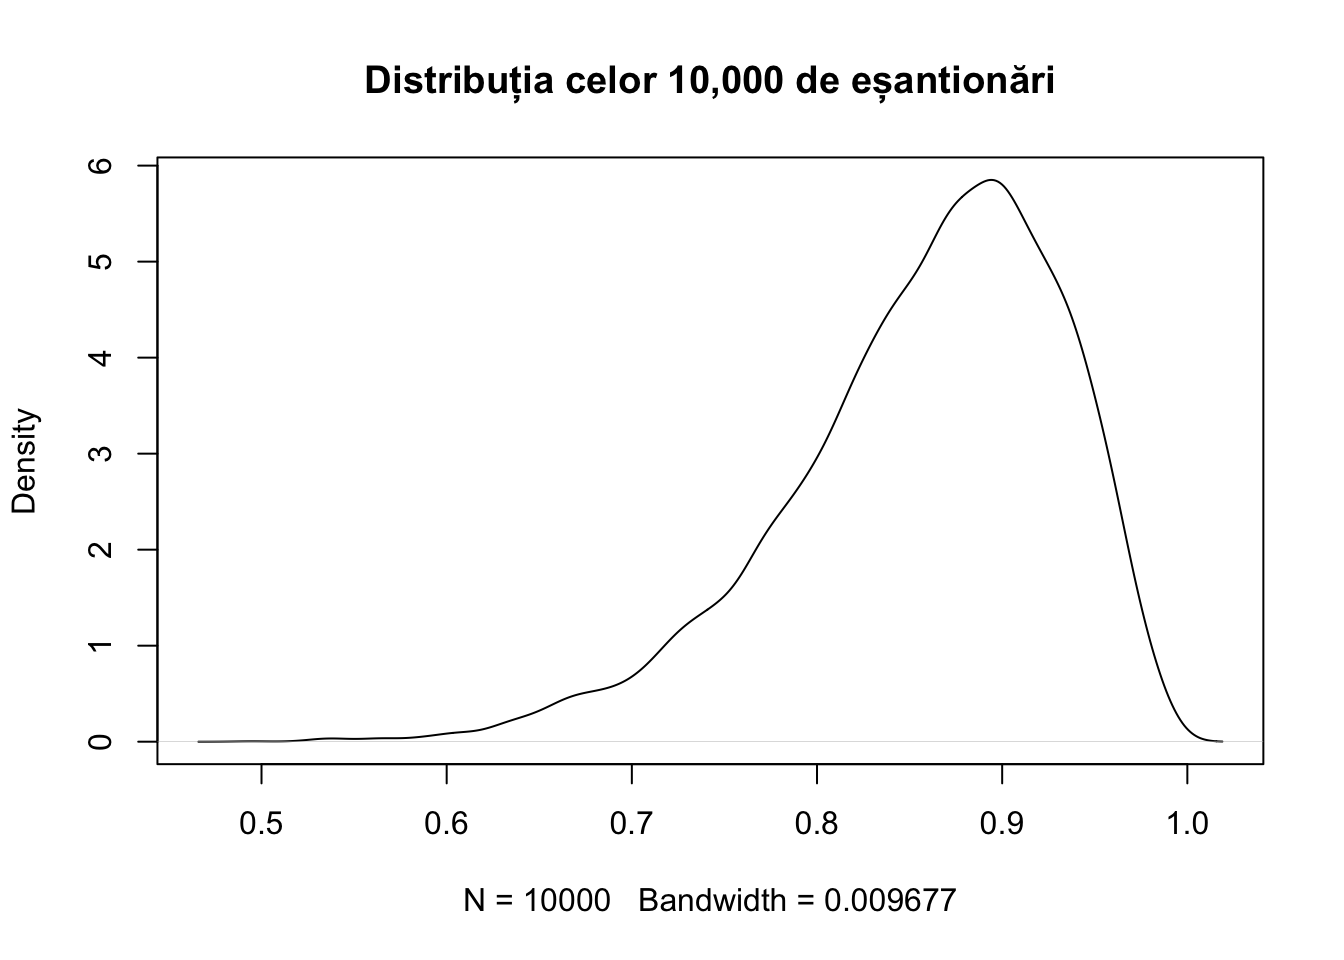
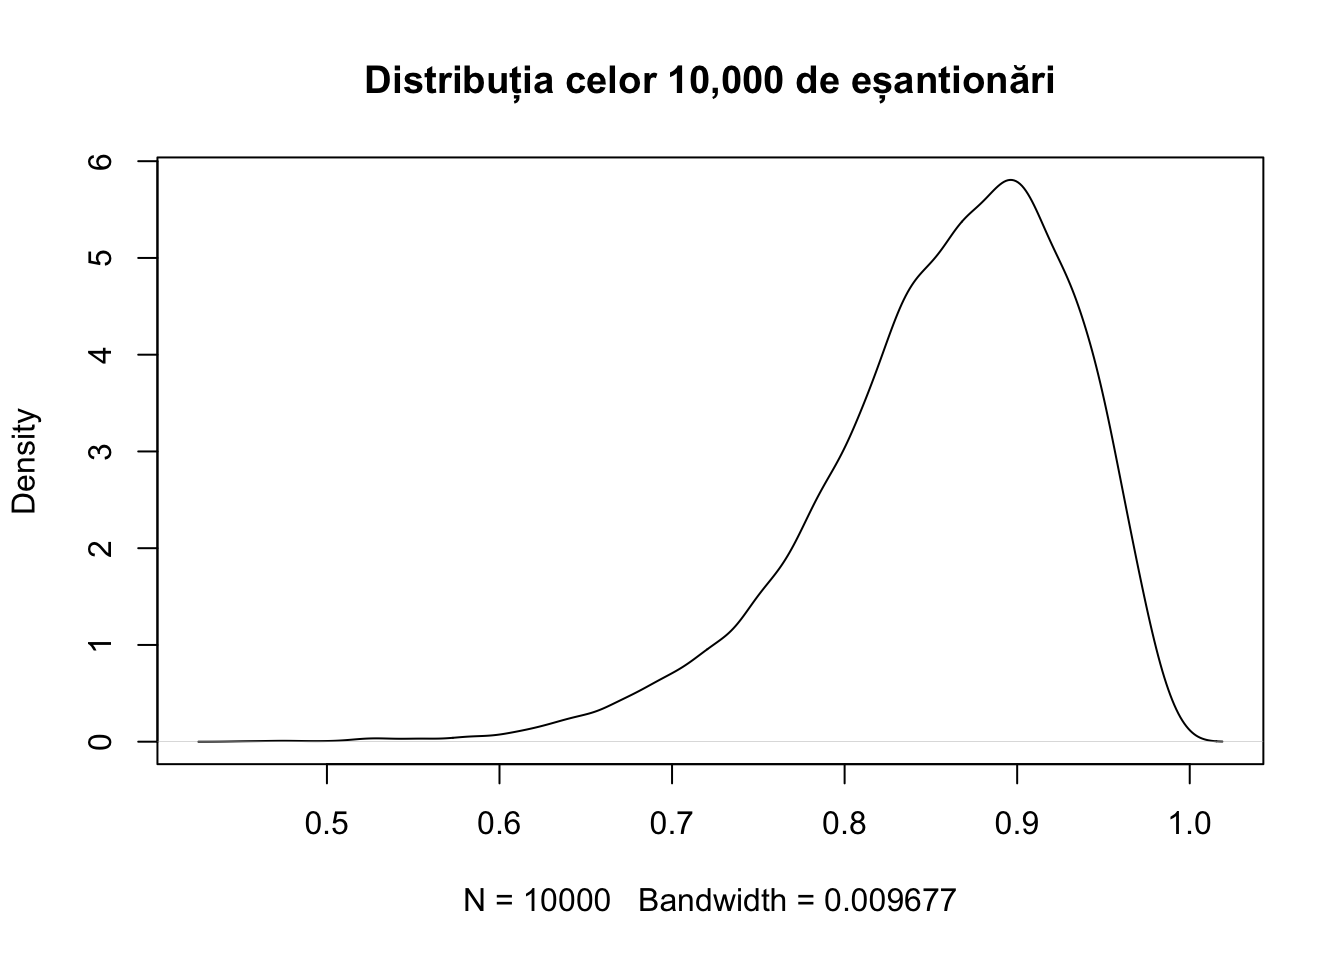
Built site for gh-pages

diff --git a/workshops/bayes/index.html b/workshops/bayes/index.html
@@ -144,11 +144,15 @@ window.Quarto = {
 
 <meta property="og:title" content="Modelul Beta-Binomial și regresia Bayesiană – George Gunnesch-Luca">
 <meta property="og:description" content="Primul vostru model Bayesian">
-<meta property="og:image" content="https://ggluca.ro/workshops/bayes/imagini/titanic.jpg">
+<meta property="og:image" content="https://ggluca.ro/workshops/bayes/imagini/mcmc-trace.png">
 <meta property="og:site_name" content="George Gunnesch-Luca">
+<meta property="og:image:height" content="960">
+<meta property="og:image:width" content="1344">
 <meta name="twitter:title" content="Modelul Beta-Binomial și regresia Bayesiană – George Gunnesch-Luca">
 <meta name="twitter:description" content="Primul vostru model Bayesian">
-<meta name="twitter:image" content="https://ggluca.ro/workshops/bayes/imagini/titanic.jpg">
+<meta name="twitter:image" content="https://ggluca.ro/workshops/bayes/imagini/mcmc-trace.png">
+<meta name="twitter:image-height" content="960">
+<meta name="twitter:image-width" content="1344">
 <meta name="twitter:card" content="summary_large_image">
 </head>
 
@@ -815,7 +819,7 @@ f(\theta | x) \propto [\theta^{17}(1 - \theta)^{2}][\theta^{21-1}(1 - \theta)^{2
 <div class="cell">
 <div class="code-copy-outer-scaffold"><div class="sourceCode cell-code" id="cb14"><pre class="sourceCode r code-with-copy"><code class="sourceCode r"><span id="cb14-1"><a href="#cb14-1" aria-hidden="true" tabindex="-1"></a><span class="fu">mean</span>(esantion)</span></code></pre></div><button title="Copy to Clipboard" class="code-copy-button"><i class="bi"></i></button></div>
 <div class="cell-output cell-output-stdout">
-<pre><code>[1] 0.8577162</code></pre>
+<pre><code>[1] 0.8577061</code></pre>
 </div>
 </div>
 <p>Sau, mediana și abaterea standard.</p>
@@ -828,7 +832,7 @@ f(\theta | x) \propto [\theta^{17}(1 - \theta)^{2}][\theta^{21-1}(1 - \theta)^{2
 <div class="cell">
 <div class="code-copy-outer-scaffold"><div class="sourceCode cell-code" id="cb18"><pre class="sourceCode r code-with-copy"><code class="sourceCode r"><span id="cb18-1"><a href="#cb18-1" aria-hidden="true" tabindex="-1"></a><span class="fu">sd</span>(esantion)</span></code></pre></div><button title="Copy to Clipboard" class="code-copy-button"><i class="bi"></i></button></div>
 <div class="cell-output cell-output-stdout">
-<pre><code>[1] 0.07450625</code></pre>
+<pre><code>[1] 0.07411285</code></pre>
 </div>
 </div>
 <p>Din fericire, avem funcții gata create pentru aceste sarcini, ca de exemplu <code>describe_posterior()</code> din pachetul <a href="https://easystats.github.io/bayestestR/"><code>bayestestR</code></a>.</p>
@@ -842,7 +846,7 @@ f(\theta | x) \propto [\theta^{17}(1 - \theta)^{2}][\theta^{21-1}(1 - \theta)^{2
 
 Parameter | Median | Mean |  MAP |       95% CI |   pd |         ROPE | % in ROPE
 ---------------------------------------------------------------------------------
-Posterior |   0.87 | 0.86 | 0.90 | [0.68, 0.97] | 100% | [0.45, 0.55] |        0%</code></pre>
+Posterior |   0.87 | 0.86 | 0.86 | [0.69, 0.97] | 100% | [0.45, 0.55] |        0%</code></pre>
 </div>
 </div>
 <p>În cadrul inferenței Bayesiene, parametrii sunt estimați în mod probabilistic ca <em>distribuții.</em> Aceste distribuții pot fi rezumate și descrise prin raportarea a patru tipuri de indici:</p>
@@ -908,9 +912,9 @@ Posterior |   0.87 | 0.86 | 0.90 | [0.68, 0.97] | 100% | [0.45, 0.55] |        0
 <div class="cell-output cell-output-stdout">
 <pre><code>Bayes Factor (Savage-Dickey density ratio)
 
-Parameter   |    BF
--------------------
-(Intercept) | 74.46
+Parameter   |     BF
+--------------------
+(Intercept) | 242.15
 
 * Evidence Against The Null: 0.500</code></pre>
 </div>

diff --git a/workshops.html b/workshops.html
@@ -138,10 +138,14 @@ window.Quarto = {
 </script>
 
 <meta property="og:title" content="Workshopuri – George Gunnesch-Luca">
-<meta property="og:image" content="https://ggluca.ro/workshops/bayes/imagini/titanic.jpg">
+<meta property="og:image" content="https://ggluca.ro/workshops/bayes/imagini/mcmc-trace.png">
 <meta property="og:site_name" content="George Gunnesch-Luca">
+<meta property="og:image:height" content="960">
+<meta property="og:image:width" content="1344">
 <meta name="twitter:title" content="Workshopuri – George Gunnesch-Luca">
-<meta name="twitter:image" content="https://ggluca.ro/workshops/bayes/imagini/titanic.jpg">
+<meta name="twitter:image" content="https://ggluca.ro/workshops/bayes/imagini/mcmc-trace.png">
+<meta name="twitter:image-height" content="960">
+<meta name="twitter:image-width" content="1344">
 <meta name="twitter:card" content="summary_large_image">
 </head>
 
@@ -392,11 +396,11 @@ window.Quarto = {
 
 <div class="quarto-listing quarto-listing-container-grid" id="listing-listing">
 <div class="list grid quarto-listing-cols-2">
-<div class="g-col-1" data-index="0" data-categories="JUM4JTk4Y29hbGElMjBkZSUyMGlhcm4lQzQlODMlMkNiYXllcyUyQ2JybXM=" data-listing-date-sort="1706742000000" data-listing-file-modified-sort="1793562480785" data-listing-date-modified-sort="NaN" data-listing-reading-time-sort="26" data-listing-word-count-sort="5198">
+<div class="g-col-1" data-index="0" data-categories="JUM4JTk4Y29hbGElMjBkZSUyMGlhcm4lQzQlODMlMkNiYXllcyUyQ2JybXM=" data-listing-date-sort="1706742000000" data-listing-file-modified-sort="1793562640511" data-listing-date-modified-sort="NaN" data-listing-reading-time-sort="26" data-listing-word-count-sort="5198">
 <a href="./workshops/bayes/index.html" class="quarto-grid-link">
 <div class="quarto-grid-item card h-100 card-left">
 <p class="card-img-top">
-<img loading="lazy" src="./workshops/bayes/imagini/titanic.jpg" class="thumbnail-image card-img" style="height: 180px;">
+<img loading="lazy" src="./workshops/bayes/imagini/mcmc-trace.png" class="thumbnail-image card-img" style="height: 180px;">
 </p>
 <div class="card-body post-contents">
 <h5 class="no-anchor card-title listing-title">
